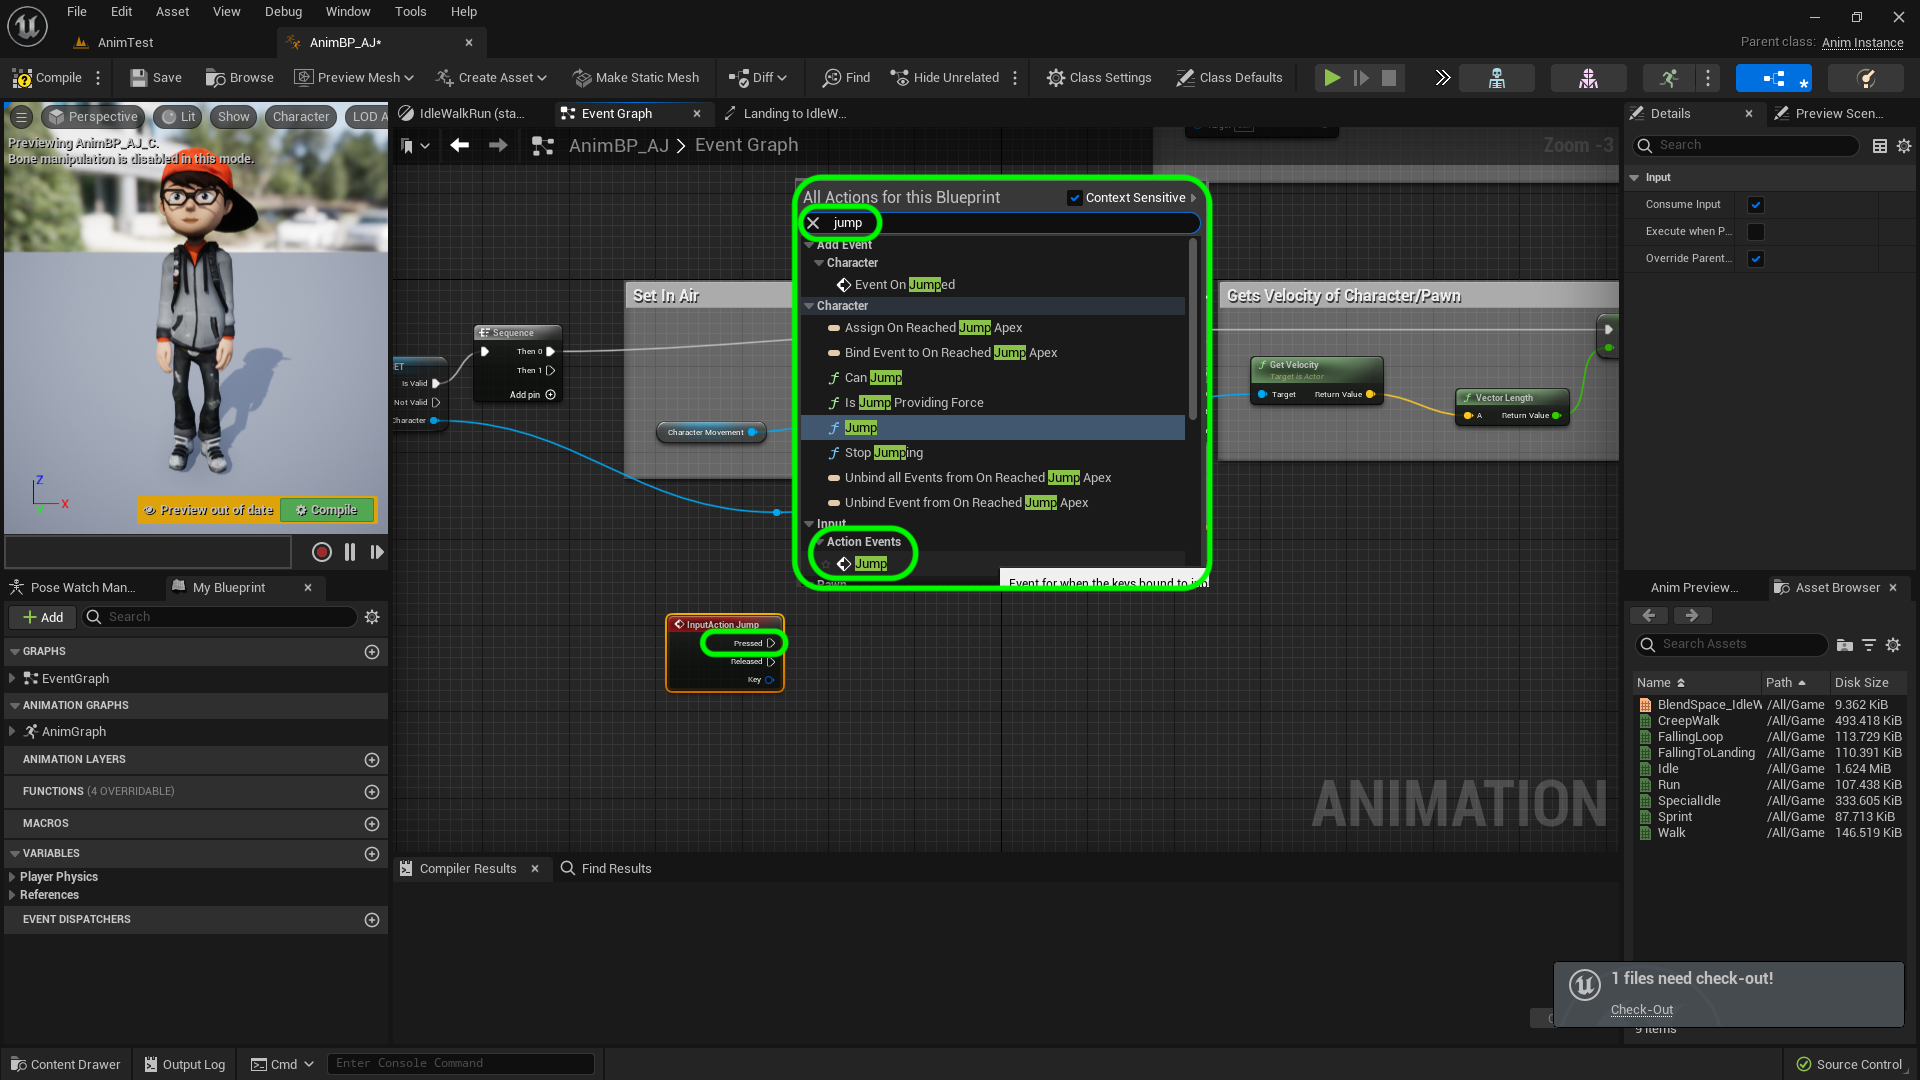
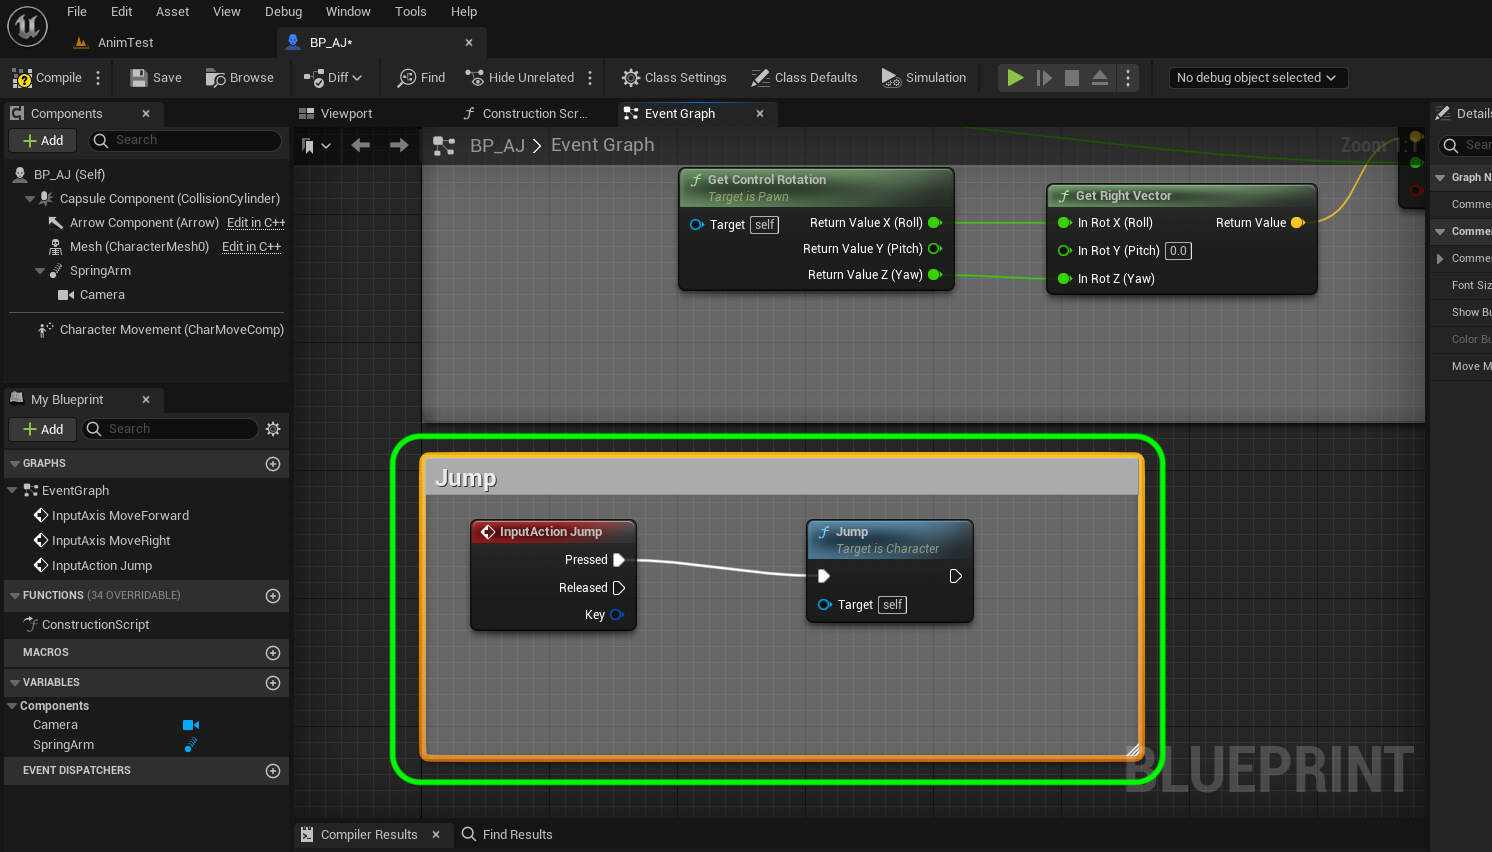
updating animtaion to ue5

diff --git a/jumping/README.md b/jumping/README.md
@@ -31,7 +31,7 @@ Call this new action `Jump`. Press the **+** button next to the **Jump** setting
 
 ##### `Step 4.`\|`ITA`|:small_blue_diamond: :small_blue_diamond: :small_blue_diamond: :small_blue_diamond:
 
-Open up the **AnimBP_AJ** blueprint and go to the **Event Graph**. *Right click* and add a **Action Events | Jump** to the graph.
+Open up the **AnimBP_AJ** blueprint and go to the **Event Graph**. *Right click* and add a **Character | Jump** to the graph.
 
 ![open BP_AJ_Character bp and add a Jump event](images/RightClickForJumpAction.png)
 
@@ -39,7 +39,7 @@ Open up the **AnimBP_AJ** blueprint and go to the **Event Graph**. *Right click*
 
 ##### `Step 5.`\|`ITA`| :small_orange_diamond:
 
-Pull off of the **Jump** node's **Pressed** execution pin and select the **Action Events | Jump** node.
+Pull off of the **Jump** node's **Pressed** execution pin and select the **Action Events | Jump** node. Add a **comment** around these two nodes called `Jump`.
 
 ![select Jump node](images/PressedToJump.png)
 
@@ -47,17 +47,13 @@ Pull off of the **Jump** node's **Pressed** execution pin and select the **Actio
 
 ##### `Step 6.`\|`ITA`| :small_orange_diamond: :small_blue_diamond:
 
-Add a **comment** around these two nodes called `Jump`.
-
-![add code comments](images/AddJumpComment.jpg)
+*Press** the <kbd>Compile</kbd> button and *run* the game and press the jump button <kbd>space bar</kbd>. Now you should be jumping around the level.
 
 ![](../images/line2.png)
 
 ##### `Step 7.`\|`ITA`| :small_orange_diamond: :small_blue_diamond: :small_blue_diamond:
 
-*Press** the <kbd>Compile</kbd> button and *run* the game and press the jump button <kbd>space bar</kbd>. Now you should be jumping around the level.
 
-https://user-images.githubusercontent.com/5504953/132988110-e708986d-8dd4-46f1-9d40-b92ad8b8015f.mp4
 
 ![](../images/line2.png)
 
